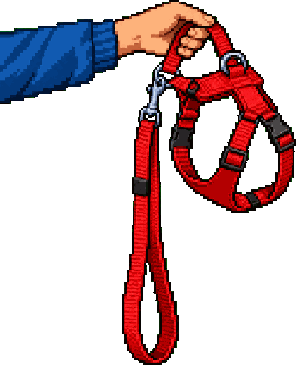
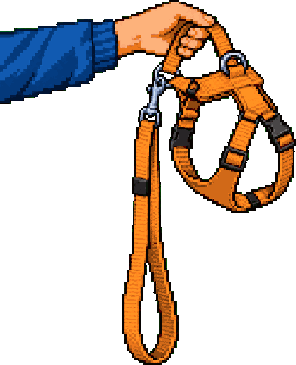
봉군이랑 친해지기 1차: 5단계 장면·하루 5번·유대감·소변 실수/방석 옮기기 이벤트·엔딩(웹/토스)·테스트

Changed region(s): [[0.3953, 0.0301, 0.9426, 0.6027], [0.3953, 0.3315, 0.6081, 0.9945], [0.8514, 0.3616, 1.0, 0.5726]]

diff --git a/index.html b/index.html
@@ -289,7 +289,7 @@ p{margin:0}
 
   <section class="res" id="bond" hidden>
     <div class="sign">
-      <div class="bhead"><span id="bDay"></span><span><span data-en="Left today">오늘 남은 횟수</span> <span class="dots" id="bLeft"></span></span></div>
+      <div class="bhead"><span id="bDay"></span><span><span data-en="Left today">오늘 남은 횟수</span> <span class="dots" id="bLeft" role="img"></span></span></div>
       <div class="blocks bbar" id="bBar" role="img"><i></i><i></i><i></i><i></i><i></i></div>
       <h2 class="bstage" id="bStage"></h2>
       <div class="scene" id="bScene" role="img"></div>
@@ -876,8 +876,8 @@ const DIARY = [
   ["d38","11-26","운동많이된다","Great workout",800,800],
 ];
 // 공개 규칙(사람마다): 처음 온 날 Day 1, 그 뒤 한국 날짜가 다른 날 다시 올 때마다 1편씩. 같은 날 여러 번 와도 1편.
-{ const kst = (t) => new Date(t + 9 * 36e5).toISOString().slice(0, 10); // "2026-11-26" (한국 날짜)
-  const today = kst(Date.now());
+const kstDay = () => new Date(Date.now() + 9 * 36e5).toISOString().slice(0, 10); // "2026-11-26" (한국 날짜)
+{ const today = kstDay();
   // 임보 D+N: 2026-10-04(임보 시작일)이 D+1
   $("dDay").textContent = "D+" + (Math.round((Date.parse(today) - Date.parse("2026-10-04")) / 864e5) + 1);
   let n = 1, fresh = true;
@@ -918,6 +918,172 @@ addEventListener("hashchange", preview); preview();
 if (IN_KAKAO) { try{ if (!sessionStorage.getItem("ext")) { sessionStorage.setItem("ext","1"); location.href = externalUrl(); } }catch(e){} }
 $("go").onclick = ()=>{ track("1-테스트시작"); $("start").hidden = true; $("quiz").hidden = false; show(); $("quiz").scrollIntoView({behavior:"smooth",block:"start"}); };
 $("again").onclick = ()=>{ i=0; score={w:0,n:0,s:0,g:0}; picks=[]; $("result").hidden=true; $("profileCta").hidden=false; $("quiz").hidden=false; show(); $("quiz").scrollIntoView({behavior:"smooth",block:"start"}); };
+
+// 봉군이랑 친해지기: 하루 5번 행동 → 유대감 점수 → 5단계(엔딩). 저장은 localStorage "bond" (막혀 있으면 이번 방문 동안만).
+// 숫자: 매일 5번을 고르게 하면 엔딩까지 8일, 아무거나 누르면 10일 안팎 (5천 번 시뮬레이션 중앙값)
+const BOND = {
+  T: [0, 10, 28, 50, 75],               // 1~5단계 시작 점수
+  DAY: 5,                               // 하루 행동 수 (한국 날짜가 바뀌면 다시 5번)
+  PET: 2, RUSH: -1,                     // 1·2단계에서 쓰다듬기를 연달아 하면 움찔, -1
+  TREAT: 2,                             // 1단계에서는 안 먹어요 (0)
+  TRAIN_OK: 3, TRAIN_NO: 1, TRAIN_P: { 3: .45, 4: .7, 5: .9 }, // 훈련은 3단계부터, 성공 확률
+  ACC_P: .2, ACC_OK: 2, ACC_SCOLD: -2,  // 소변 실수: 1·2단계, 하루 한 번까지
+  CUSH_P: .15,                          // 방석 옮기기: 1·2단계, 하루 한 번까지, 재미 이벤트라 점수 변화 없음
+};
+// 문구 [한국어, 영어]: 오너가 알려 준 봉군이 사실만 (꼬리는 흔들지 않아요)
+const BL = {
+  name: [, ["벽에 붙은 봉군이", "Glued to the Wall"], ["조심조심", "Ever So Carefully"], ["슬쩍 지켜보기", "Sneaky Lookout"], ["나른한 봉군이", "Lazy Bonggoon"], ["같이 나가요", "Let's Go Out"]],
+  intro: [,
+    ["봉군이가 벽에 딱 붙어 있어요. 손만 뻗어도 움찔해요.", "Bonggoon is glued to the wall. Even reaching out makes him flinch."],
+    ["봉군이가 조심조심 지켜봐요. 꼬리는 아직 돌돌 말려 있어요.", "Bonggoon is watching you, very carefully. His tail is still tucked tight."],
+    ["화분 뒤에서 얼굴만 쑤욱 내밀고 쳐다봐요. 눈이 마주치면 쏙 숨어요.", "He pokes just his face out from behind the plant to watch you. Meet his eyes and he ducks away."],
+    ["봉군이가 소파에서 늘어지게 자요. 가끔 깨서 나른하게 쳐다봐요.", "Bonggoon is sprawled out asleep on the sofa. Now and then he wakes and gives you a sleepy look."],
+    ["하네스를 들면 떨면서도 일어났다 앉았다 해요. 같이 나가겠다는 뜻이에요.", "Pick up the harness and he trembles, yet stands up, sits down, stands up again. That means he's coming along."]],
+  pet: [,
+    ["살며시 쓰다듬었어요. 봉군이가 움찔하며 벽에 더 바짝 붙어요. 그래도 한 번 닿았어요.", "You gently stroked him. Bonggoon flinched and pressed even closer to the wall. Still, you made contact."],
+    ["쓰다듬는 동안 봉군이가 몸이 굳은 채 숨만 쉬어요. 피하지 않은 게 어디예요.", "While you pet him, Bonggoon goes stiff and just breathes. Hey, he didn't run away."],
+    ["손을 내밀자 쏙 숨었다가, 잠시 뒤 화분 옆으로 얼굴만 내밀어요.", "He ducks away from your hand, then a moment later pokes his face out beside the plant."],
+    ["누워 있는 봉군이를 쓰다듬었어요. 눈만 굴려 나른하게 쳐다봐요.", "You pet Bonggoon as he lies there. He just rolls his eyes up at you, all drowsy."],
+    ["쓰다듬는 손을 봉군이가 핥아 줘요.", "Bonggoon licks the hand that's petting him."]],
+  rush: ["아이고, 너무 서둘렀어요. 봉군이가 움찔하며 구석으로 물러나요. 천천히 해요.", "Oops, too fast. Bonggoon flinched and backed into the corner. Slowly does it."],
+  treat: [,
+    ["간식을 내려놓았지만 봉군이는 쳐다보지도 않아요. 처음엔 밥도 안 먹던 봉군이예요.", "You set down a treat, but Bonggoon won't even look at it. In the beginning he wouldn't even eat his meals."],
+    ["한참 눈치를 보더니, 간식을 아주 조금 먹었어요.", "After a long, cautious look around, he ate a tiny bit of the treat."],
+    ["간식을 잘 먹어요. 다 먹고 나서는 다시 슬쩍 지켜봐요.", "He eats the treat nicely, then goes right back to watching you on the sly."],
+    ["간식도 밥도 잘 먹어요. 먹고 나서 다시 나른하게 누워요.", "He eats his treats and his meals well. Then he flops back down, all drowsy."],
+    ["간식을 맛있게 먹고, 손까지 핥아 줘요.", "He enjoys the treat and even licks your hand."]],
+  cmd: [["손", "Paw"], ["앉아", "Sit"], ["엎드려", "Down"]],
+  acc: ["앗, 봉군이가 바닥에 쉬를 했어요. 어떻게 할까요?", "Uh-oh, Bonggoon peed on the floor. What will you do?"],
+  ok: ["괜찮다고 말해 주고 조용히 치웠어요. 봉군이 몸이 조금 풀렸어요.", "You told him it's okay and quietly cleaned up. Bonggoon relaxed a little."],
+  scold: ["봉군이가 꼬리를 말고 벽 쪽으로 숨어 버렸어요.", "Bonggoon tucked his tail and hid by the wall."],
+  cush: ["방석을 가운데로 옮겨 줬어요. 그런데 봉군이는 방석에 안 올라가고, 방석 옆 구석에 동그랗게 웅크렸어요. 역시 구석이 최고래요.",
+         "You moved his cushion to the middle of the room. But Bonggoon didn't get on it. He curled up in the corner next to it instead. Corners are the best, apparently."],
+};
+const BX = (a) => L(a[0], a[1]);
+// 장면: 배경 + 봉군이 레이어 (src 이름은 img/bond/○○.png), 누르거나 행동하면 반응
+const BSCENE = [
+  { bg: "bg3", bub: ["…", "…"], html: '<img src="dog-curl" style="left:37%;bottom:36%;width:28%">' }, // 방석 옮기기 이벤트
+  { bg: "bg1", bub: ["움찔!", "Flinch!"], html: '<img class="dog shake" src="dog1" style="left:50%;bottom:24%;width:38%">' },
+  { bg: "bg1", bub: ["…!", "…!"], html: '<img class="dog breath" src="dog2" style="left:36%;bottom:11%;width:40%">' },
+  { bg: "bg3", bub: ["쏙!", "Duck!"], html: '<img class="d3 away" src="dog3-away"><img class="d3 peek" src="dog3-peek"><img class="plant" src="plant"><img class="d3h" src="dog3-peek">' },
+  { bg: "bg4", bub: ["하암…", "Yaaawn…"], html: '<img class="d4 sleep" src="dog4-sleep"><img class="d4 yawn" src="dog4-yawn"><i class="z">Z</i><i class="z z2">z</i>' },
+  { bg: "bg3", bub: ["들썩들썩!", "Bounce, bounce!"], html: '<img class="dog5 sit" src="dog5-sit"><img class="dog5 stand" src="dog5-stand"><img class="harness" src="harness">' },
+];
+const STILL = matchMedia("(prefers-reduced-motion: reduce)").matches;
+let B = null, bPending = false, bShown = 0, bTimers = [];
+const bAfter = (f, ms) => bTimers.push(setTimeout(f, ms));
+const bClear = () => { bTimers.forEach(clearTimeout); bTimers = []; }; // clearTimeout은 setInterval도 멈춰요
+function bScene(s){
+  bClear(); bShown = s;
+  const sc = $("bScene"), d = BSCENE[s];
+  sc.className = "scene s" + s; sc.style.backgroundImage = `url(img/bond/${d.bg}.png)`;
+  sc.innerHTML = d.html.replace(/src="([\w-]+)"/g, 'src="img/bond/$1.png" alt=""') + '<div class="bub"></div>';
+  sc.lastChild.textContent = BX(d.bub);
+  sc.setAttribute("aria-label", BX(s ? BL.intro[s] : BL.cush));
+  if (STILL) { if (s === 5) sc.classList.add("go"); return; } // 움직임 줄이기: 하네스 든 장면만 멈춰서 보여 줘요
+  if (s === 3) bTimers.push(setInterval(() => { if (sc.classList.contains("caught")) return;
+    sc.classList.add("out"); bAfter(() => sc.classList.remove("out"), 1600); }, 3200)); // 가끔 얼굴만 쑤욱
+  if (s === 4) bTimers.push(setInterval(bReact, 5200)); // 자다가 가끔 하품
+  if (s === 5) bHarness();
+}
+// 5단계: 하네스 등장 → 일어났다 앉았다 반복(떨면서) → 하네스 퇴장, 계속 되풀이
+function bHarness(){
+  bClear(); const sc = $("bScene"), u = sc.querySelector(".bub");
+  sc.classList.remove("go", "up"); u.classList.remove("on");
+  bAfter(() => { sc.classList.add("go"); u.classList.add("on"); let n = 0;
+    const iv = setInterval(() => { sc.classList.toggle("up"); if (++n >= 10) { clearInterval(iv); sc.classList.remove("up"); } }, 380); bTimers.push(iv); }, 1200);
+  bAfter(() => { sc.classList.remove("go", "up"); u.classList.remove("on"); }, 5600);
+  bAfter(bHarness, 7600);
+}
+function bReact(){
+  const sc = $("bScene"), s = bShown, u = sc.querySelector(".bub"), dog = sc.querySelector(".dog");
+  if (!u || s === 4 && sc.classList.contains("y")) return;
+  if (s === 5) { if (!STILL) bHarness(); return; }
+  if (s === 3) sc.classList.replace("out", "caught") || sc.classList.add("caught");
+  if (s === 4) sc.classList.add("y");
+  const r = s === 1 ? "r-flinch" : "r-freeze";
+  if (dog) { dog.classList.remove(r); void dog.offsetWidth; dog.classList.add(r); }
+  u.classList.add("on");
+  bAfter(() => { u.classList.remove("on"); sc.classList.remove("caught", "y"); dog?.classList.remove(r); }, 1400);
+}
+function bLoad(){
+  const today = kstDay();
+  if (!B) try { B = JSON.parse(localStorage.getItem("bond") || "null"); } catch (e) {}
+  if (!B || typeof B.p !== "number" || !/^\d{4}-\d\d-\d\d$/.test(B.d0)) B = { d0: today, day: today, n: 0, p: 0, s: 1, last: "", acc: "" };
+  B.s = Math.min(5, Math.max(1, B.s | 0)); B.n = Math.min(BOND.DAY, Math.max(0, B.n | 0));
+  if (B.day !== today) { B.day = today; B.n = 0; B.last = ""; }
+}
+function bSave(){ try { localStorage.setItem("bond", JSON.stringify(B)); } catch (e) {} }
+function bAct(k){
+  bLoad();
+  if (B.n >= BOND.DAY || bPending || (k === "train" && B.s < 3)) return bRender();
+  const s = B.s; let d, msg;
+  if (k === "pet") { const rush = s <= 2 && B.last === "pet"; d = rush ? BOND.RUSH : BOND.PET; msg = BX(rush ? BL.rush : BL.pet[s]); }
+  else if (k === "treat") { d = s === 1 ? 0 : BOND.TREAT; msg = BX(BL.treat[s]); }
+  else { const c = BX(BL.cmd[Math.floor(Math.random() * 3)]), ok = Math.random() < BOND.TRAIN_P[s];
+    d = ok ? BOND.TRAIN_OK : BOND.TRAIN_NO;
+    msg = ok ? L(`'${c}' 성공! 봉군이가 해냈어요.`, `'${c}' worked! Bonggoon did it.`)
+             : L(`'${c}' 했더니 봉군이가 가만히 쳐다만 봐요. 다음에 또 해 봐요.`, `You said '${c}', and Bonggoon just stared at you. Try again next time.`); }
+  B.n++; B.last = k;
+  let cush = false;
+  if (s <= 2 && k !== "train" && B.acc !== B.day && Math.random() < BOND.ACC_P) { B.acc = B.day; bPending = true; msg += " " + BX(BL.acc); }
+  else if (s <= 2 && k !== "train" && B.cush !== B.day && Math.random() < BOND.CUSH_P) { B.cush = B.day; cush = true; msg = BX(BL.cush); }
+  bAdd(d, msg);
+  if (cush && B.s === s) bScene(0); // 다음 행동 때 원래 장면으로 돌아와요
+}
+function bPick(k){ if (!bPending) return; bPending = false; bAdd(k === "ok" ? BOND.ACC_OK : BOND.ACC_SCOLD, BX(k === "ok" ? BL.ok : BL.scold)); }
+function bAdd(d, msg){
+  B.p = Math.max(BOND.T[B.s - 1], B.p + d); // 단계는 내려가지 않아요
+  const ns = BOND.T.filter((t) => B.p >= t).length;
+  if (ns > B.s) { B.s = ns; track("친해지기-단계" + ns); msg = L(`${ns}단계가 됐어요! `, `Stage ${ns}! `) + BX(BL.intro[ns]); }
+  bSave(); bRender(msg); bReact();
+}
+function bRender(msg){
+  const left = BOND.DAY - B.n, days = Math.round((Date.parse(B.day) - Date.parse(B.d0)) / 864e5) + 1, max = BOND.T[4];
+  $("bDay").textContent = L(`친해진 지 ${days}일째`, `Day ${days} together`);
+  $("bLeft").textContent = "●".repeat(left) + "○".repeat(B.n);
+  $("bLeft").setAttribute("aria-label", L(`${left}번`, `${left}`));
+  const f = Math.min(1, B.p / max) * 5;
+  [...$("bBar").children].forEach((c, i) => c.style.setProperty("--f", Math.max(0, Math.min(1, f - i))));
+  $("bBar").setAttribute("aria-label", L(`유대감 ${Math.min(B.p, max)} / ${max}`, `Bond ${Math.min(B.p, max)} / ${max}`));
+  $("bStage").textContent = L(`${B.s}단계 · `, `Stage ${B.s} · `) + BX(BL.name[B.s]);
+  if (bShown !== B.s) bScene(B.s);
+  if (msg) $("bSay").textContent = msg;
+  $("bRest").hidden = left > 0 || bPending;
+  $("bChoice").hidden = !bPending;
+  $("bTrain").textContent = B.s < 3 ? L("훈련 🔒 3단계부터", "Train 🔒 from stage 3") : L("훈련", "Train");
+  $("bActs").querySelectorAll("button").forEach((b) => { b.disabled = !left || bPending || (b.dataset.act === "train" && B.s < 3); });
+  $("bEnd").hidden = B.s < 5;
+}
+function bOpen(){
+  track("친해지기-시작");
+  bLoad(); bSave(); bShown = 0;
+  $("start").hidden = true; $("bond").hidden = false;
+  bRender(BX(BL.intro[B.s]));
+  $("bond").scrollIntoView({ behavior: "smooth", block: "start" });
+}
+$("bondGo").onclick = bOpen;
+$("bBack").onclick = () => { bClear(); bShown = 0; $("bond").hidden = true; $("start").hidden = false; $("start").scrollIntoView({ behavior: "smooth", block: "start" }); };
+$("bActs").onclick = (e) => { const b = e.target.closest("button"); if (b) bAct(b.dataset.act); };
+$("bChoice").onclick = (e) => { const b = e.target.closest("button"); if (b) bPick(b.dataset.pick); };
+$("bScene").onclick = bReact;
+// 친구에게 자랑하기 (웹: 카카오톡 공유, 안 되면 문구 복사). 토스 미니앱은 toss/entry.js가 토스 공유로 바꿔요
+$("bShare").onclick = () => {
+  track("친해지기-엔딩공유"); trackOnce("3-공유-사람");
+  const link = PAGE_URL + "?ref=kakao#bond";
+  const msg = L("가족을 기다리는 8살 봉군이와 친해졌어요. 봉군이랑 친해지기, 같이 해 봐요!", "I got close to Bonggoon, an 8-year-old dog waiting for a family. Give it a try too!");
+  try {
+    if (!Kakao.isInitialized()) Kakao.init(KAKAO_JS_KEY);
+    Kakao.Share.sendDefault({ objectType: "feed",
+      content: { title: L("봉군이랑 친해지기", "Get close to Bonggoon"), description: msg, imageUrl: new URL("img/og.jpg", PAGE_URL).href,
+        imageWidth: 1200, imageHeight: 630, link: { mobileWebUrl: link, webUrl: link } },
+      buttons: [{ title: L("나도 친해지기", "Try it too"), link: { mobileWebUrl: link, webUrl: link } }] });
+  } catch (e) {
+    const t = msg + "\n" + link, toast = $("bToast"); toast.textContent = t;
+    navigator.clipboard?.writeText(t).then(() => { toast.textContent = L("공유 문구를 복사했어요. 친구에게 붙여 넣어 주세요.", "Share message copied. Paste it to a friend."); }, () => {});
+  }
+};
+if (location.hash === "#bond") bOpen();
 
 // 봉군이 사진 넘기기: swipe works natively (scroll-snap); buttons and counter follow the scroll position
 (function gallery(){

diff --git a/tests/bond.spec.js b/tests/bond.spec.js
@@ -1,0 +1,140 @@
+// @ts-check
+// 봉군이랑 친해지기: 메뉴 진입, 하루 5번 제한·다음 날 초기화, 단계 오름, 1단계 간식 거절, 토스 빌드
+const { test, expect } = require("@playwright/test");
+
+const today = () => new Date(Date.now() + 9 * 36e5).toISOString().slice(0, 10);
+const state = (s, p, extra = {}) => ({ d0: today(), day: today(), n: 0, p, s, last: "", acc: "", ...extra });
+// 확률 고정: 0.99 → 실수·방석 이벤트 없음, 훈련 실패 / 0 → 실수 이벤트 나옴, 훈련 성공
+async function open(page, { st = null, rnd = 0.99, url = "./" } = {}) {
+  await page.addInitScript(([st, rnd]) => {
+    Math.random = () => rnd;
+    if (st && !sessionStorage.getItem("seeded")) { sessionStorage.setItem("seeded", "1"); localStorage.setItem("bond", JSON.stringify(st)); }
+  }, [st, rnd]);
+  await page.goto(url);
+  await page.locator("#bondGo").click();
+  await expect(page.locator("#bond")).toBeVisible();
+}
+const act = (page, name) => page.locator("#bActs").getByRole("button", { name }).click();
+
+test("첫 화면 [봉군이랑 친해지기] → 게임 화면 (1단계, 오늘 5번, 훈련 잠김)", async ({ page }) => {
+  await open(page);
+  await expect(page.locator("#start")).toBeHidden();
+  await expect(page.locator("#bDay")).toHaveText("친해진 지 1일째");
+  await expect(page.locator("#bLeft")).toHaveText("●●●●●");
+  await expect(page.locator("#bStage")).toHaveText("1단계 · 벽에 붙은 봉군이");
+  await expect(page.locator("#bScene img")).toHaveCount(1);
+  await expect(page.locator("#bActs").getByRole("button", { name: /훈련/ })).toBeDisabled();
+  await expect(page.locator("#bEnd")).toBeHidden();
+  await page.getByRole("button", { name: "← 처음 화면으로" }).click();
+  await expect(page.locator("#start")).toBeVisible();
+});
+
+test("하루 5번 쓰면 쉬어요, 한국 날짜가 바뀌면 다시 5번", async ({ page }) => {
+  await page.clock.setFixedTime(new Date("2026-11-27T23:00:00+09:00"));
+  await open(page);
+  for (const n of ["쓰다듬기", "간식 주기", "쓰다듬기", "간식 주기", "쓰다듬기"]) await act(page, n);
+  await expect(page.locator("#bLeft")).toHaveText("○○○○○");
+  await expect(page.locator("#bRest")).toHaveText("봉군이가 쉬고 싶어 해요. 내일 또 만나요");
+  await expect(page.locator("#bActs button:enabled")).toHaveCount(0);
+  // 같은 날 다시 와도 그대로
+  await page.reload(); await page.locator("#bondGo").click();
+  await expect(page.locator("#bActs button:enabled")).toHaveCount(0);
+  // 한국 자정 직후(UTC로는 아직 27일) → 다음 날
+  await page.clock.setFixedTime(new Date("2026-11-28T00:30:00+09:00"));
+  await page.reload(); await page.locator("#bondGo").click();
+  await expect(page.locator("#bDay")).toHaveText("친해진 지 2일째");
+  await expect(page.locator("#bLeft")).toHaveText("●●●●●");
+  await expect(page.locator("#bRest")).toBeHidden();
+  await expect(page.locator("#bBar")).toHaveAttribute("aria-label", "유대감 6 / 75"); // 쓰다듬기 2 ×3, 1단계 간식 0
+});
+
+test("1단계에서는 간식을 안 먹어요 (유대감 그대로)", async ({ page }) => {
+  await open(page);
+  await act(page, "간식 주기");
+  await expect(page.locator("#bSay")).toContainText("쳐다보지도 않아요");
+  await expect(page.locator("#bBar")).toHaveAttribute("aria-label", "유대감 0 / 75");
+});
+
+test("1·2단계에서 쓰다듬기를 연달아 하면 움찔하며 유대감이 내려가요", async ({ page }) => {
+  await open(page);
+  await act(page, "쓰다듬기");
+  await expect(page.locator("#bBar")).toHaveAttribute("aria-label", "유대감 2 / 75");
+  await act(page, "쓰다듬기");
+  await expect(page.locator("#bSay")).toContainText("서둘렀어요");
+  await expect(page.locator("#bBar")).toHaveAttribute("aria-label", "유대감 1 / 75");
+});
+
+test("유대감이 차면 단계가 오르고, 3단계부터 훈련이 열려요", async ({ page }) => {
+  await open(page, { st: state(1, 9) });
+  await act(page, "쓰다듬기");
+  await expect(page.locator("#bStage")).toHaveText("2단계 · 조심조심");
+  await expect(page.locator("#bSay")).toContainText("2단계가 됐어요!");
+  await expect(page.locator("#bActs").getByRole("button", { name: /훈련/ })).toBeDisabled();
+  await page.evaluate(() => { const b = JSON.parse(localStorage.getItem("bond")); b.p = 27; localStorage.setItem("bond", JSON.stringify(b)); });
+  await page.reload(); await page.locator("#bondGo").click();
+  await act(page, "간식 주기");
+  await expect(page.locator("#bSay")).toContainText("3단계가 됐어요!");
+  await expect(page.locator("#bScene .plant")).toHaveCount(1);
+  await act(page, "훈련");
+  await expect(page.locator("#bSay")).toContainText("쳐다만 봐요"); // 0.99 → 실패, 그래도 +1
+  await expect(page.locator("#bBar")).toHaveAttribute("aria-label", "유대감 30 / 75");
+});
+
+test("소변 실수: 괜찮아는 +, 혼내기는 −, 고르는 동안 다른 행동은 잠겨요", async ({ page }) => {
+  await open(page, { st: state(2, 15), rnd: 0 });
+  await act(page, "간식 주기");
+  await expect(page.locator("#bSay")).toContainText("쉬를 했어요");
+  await expect(page.locator("#bActs button:enabled")).toHaveCount(0);
+  await page.getByRole("button", { name: "혼내기" }).click();
+  await expect(page.locator("#bSay")).toContainText("꼬리를 말고");
+  await expect(page.locator("#bBar")).toHaveAttribute("aria-label", "유대감 15 / 75"); // 간식 +2, 혼내기 −2
+  await expect(page.locator("#bChoice")).toBeHidden();
+});
+
+test("5단계 엔딩: 문구 + 자랑하기 + 봉군이 인스타 링크 (웹)", async ({ page }) => {
+  await open(page, { st: state(5, 80) });
+  await expect(page.locator("#bStage")).toHaveText("5단계 · 같이 나가요");
+  const end = page.locator("#bEnd");
+  await expect(end).toContainText("봉군이는 아직 꼬리를 흔들지 않아요.");
+  await expect(end).toContainText("천천히 마음을 열어 줄 가족을 기다려요.");
+  await expect(end.getByRole("button", { name: "친구에게 자랑하기" })).toBeVisible();
+  await expect(end.getByRole("link", { name: "봉군이 인스타 @im.bonggoon" })).toHaveAttribute("href", "https://www.instagram.com/im.bonggoon/");
+});
+
+test("토스 빌드(dist): 엔딩에 인스타 링크 없이 글자만", async ({ page }) => {
+  await open(page, { st: state(5, 80), url: "./dist/" });
+  const end = page.locator("#bEnd");
+  await expect(end).toBeVisible();
+  await expect(page.locator('#bond a[href*="instagram.com"]')).toHaveCount(0);
+  await expect(end).toContainText("봉군이의 인스타그램 @im.bonggoon");
+  await expect(end.getByRole("button", { name: "친구에게 자랑하기" })).toBeHidden(); // 토스 밖에선 토스 공유가 없어 숨김
+});
+
+test("영어 화면, 저장소가 막혀도 오류 없이 돌아가요", async ({ page }) => {
+  const errors = [];
+  page.on("pageerror", (e) => errors.push(e.message));
+  await page.addInitScript(() => { Object.defineProperty(window, "localStorage", { get() { throw new Error("blocked"); } }); });
+  await page.goto("./?lang=en");
+  await page.getByRole("button", { name: /Get close to Bonggoon/ }).click();
+  await expect(page.locator("#bStage")).toHaveText("Stage 1 · Glued to the Wall");
+  await expect(page.locator("#bDay")).toHaveText("Day 1 together");
+  await page.locator("#bActs").getByRole("button", { name: "Treat" }).click();
+  await expect(page.locator("#bSay")).toContainText("won't even look at it");
+  expect(errors).toEqual([]);
+});
+
+test("통계: 친해지기 시작·단계·엔딩공유 이벤트 (+ 공유 사람 수)", async ({ page }) => {
+  await page.route(/\/(index\.html)?(\?.*)?$/, async (route) => {
+    const res = await route.fetch(); let body = await res.text();
+    body = body.replace(/const GC_CODE = "[a-z0-9-]*";/, 'const GC_CODE = "test";');
+    await route.fulfill({ response: res, body });
+  });
+  await page.route("**/gc.zgo.at/**", (r) => r.abort());
+  await page.route("**/kakao**", (r) => r.abort()); // 카카오 SDK 없이 → 문구 복사로
+  await page.addInitScript(() => { window.__trackTest = true; window.__events = []; window.goatcounter = { count: (o) => window.__events.push(o) }; });
+  await open(page, { st: state(4, 74), rnd: 0 });
+  await act(page, "쓰다듬기");
+  await page.getByRole("button", { name: "친구에게 자랑하기" }).click();
+  const paths = (await page.evaluate(() => window.__events)).map((e) => e.path);
+  expect(paths).toEqual(expect.arrayContaining(["event/친해지기-시작", "event/친해지기-단계5", "event/친해지기-엔딩공유", "event/3-공유-사람"]));
+});

diff --git a/toss/entry.js b/toss/entry.js
@@ -10,7 +10,11 @@ window.goatcounter = { referrer: "toss" };
 document.addEventListener("DOMContentLoaded", () => {
   document.getElementById("kakao")?.closest(".sign")?.setAttribute("hidden", "");
   document.querySelectorAll('a[href*="instagram.com"]').forEach((a) => a.setAttribute("hidden", ""));
-  // 결과 카드엔 누를 수 없는 안내 글자만 남겨요 (링크·버튼 금지). 언어 전환은 새로고침이라 지금 언어로 한 번만 넣으면 돼요
+  // 결과 카드·친해지기 엔딩엔 누를 수 없는 안내 글자만 남겨요 (링크·버튼 금지). 언어 전환은 새로고침이라 지금 언어로 한 번만 넣으면 돼요
+  document.querySelector('#result .sign a.btn.alt[href*="instagram.com"]')?.after(instaText());
+  document.getElementById("bInsta")?.replaceWith(instaText()); // 엔딩 링크는 아예 빼요
+});
+function instaText(){
   const p = document.createElement("p");
   p.className = "small";
   // '@im.bonggoon'은 중간에서 끊기지 않게 묶어 둬요 (토스 검수가 어색한 줄바꿈에 민감)
@@ -21,8 +25,8 @@ document.addEventListener("DOMContentLoaded", () => {
   nb.style.whiteSpace = "nowrap";
   nb.textContent = tag;
   p.append(before, nb);
-  document.querySelector('#result .sign a.btn.alt[href*="instagram.com"]')?.after(p);
-});
+  return p;
+}
 
 // 웹뷰가 숫자·주소를 자동 링크로 바꾸지 않게 (위 안내 글자가 눌리지 않도록)
 document.head.insertAdjacentHTML("beforeend", '<meta name="format-detection" content="telephone=no,email=no,address=no">');
@@ -68,4 +72,21 @@ document.addEventListener("DOMContentLoaded", () => {
     } catch (e) {} // 공유 창을 닫거나 실패해도 조용히
   };
   document.querySelector("#result .license")?.after(b);
+});
+
+// 봉군이랑 친해지기 엔딩의 '친구에게 자랑하기': 웹(카카오톡) 대신 토스 공유 링크로. 토스 밖(로컬 브라우저)에선 숨겨요.
+document.addEventListener("DOMContentLoaded", () => {
+  const b = document.getElementById("bShare");
+  if (!b) return;
+  if (!window.ReactNativeWebView) { b.hidden = true; return; }
+  const en = document.documentElement.lang === "en";
+  b.onclick = async () => {
+    window.track?.("친해지기-엔딩공유"); window.trackOnce?.("3-공유-사람");
+    try {
+      const link = await getTossShareLink("intoss://bonggoon-quest");
+      await share({ message: (en
+        ? "I got close to Bonggoon, an 8-year-old dog waiting for a family. Give it a try too!"
+        : "가족을 기다리는 8살 봉군이와 친해졌어요. 봉군이랑 친해지기, 같이 해 봐요!") + "\n" + link });
+    } catch (e) {}
+  };
 });

diff --git a/playwright.config.js b/playwright.config.js
@@ -12,7 +12,8 @@ module.exports = defineConfig({
     // 한국어가 기본인 테스트들이라 브라우저 언어를 한국어로 고정해요 (영어 모드 테스트는 따로 en-US로 바꿔요)
     locale: "ko-KR" },
   webServer: process.env.BASE_URL ? undefined : {
-    command: "python3 -m http.server 4173 --bind 127.0.0.1",
+    // 토스 빌드(dist/)도 같이 만들어 /dist/ 로 테스트해요
+    command: "node toss/build.mjs && python3 -m http.server 4173 --bind 127.0.0.1",
     url: "http://127.0.0.1:4173/",
     reuseExistingServer: !process.env.CI,
   },
